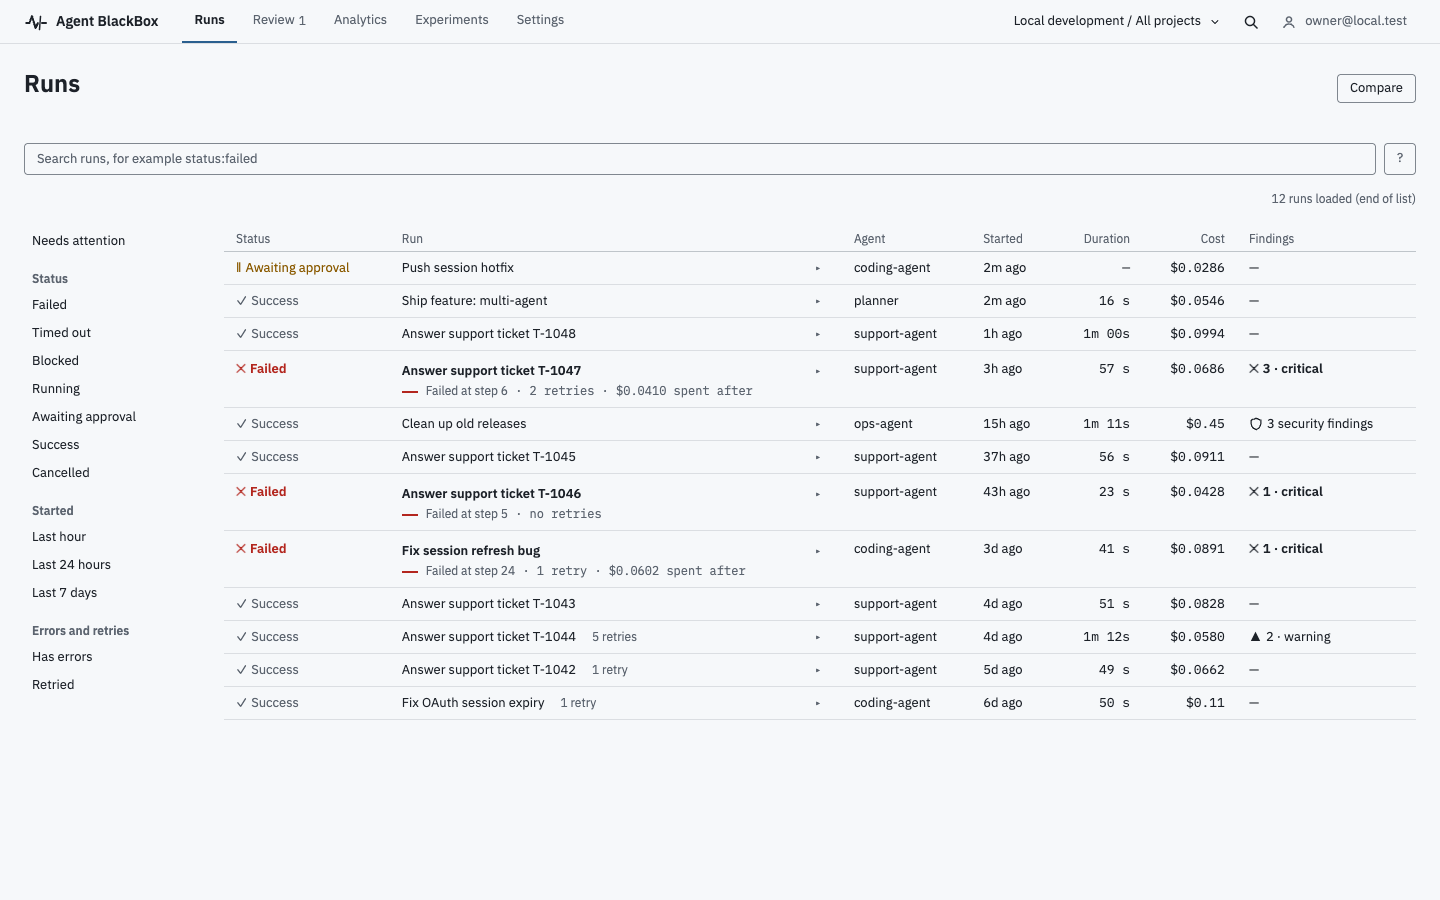
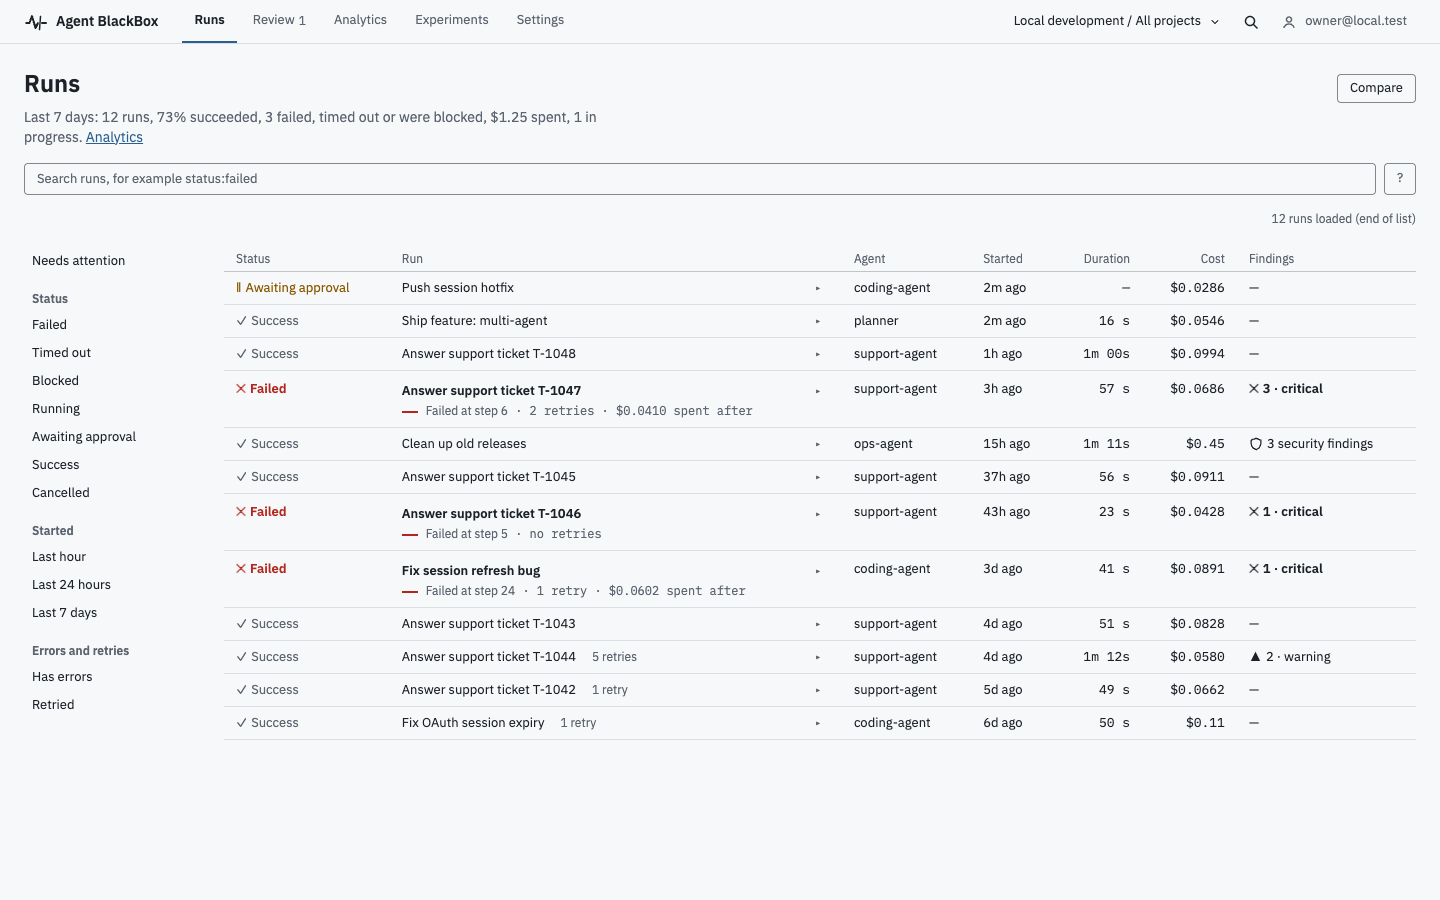
feat(screenshots): the release set (6 views, light and dark), verified over two fresh stacks

diff --git a/apps/web/e2e/release-shots.spec.ts b/apps/web/e2e/release-shots.spec.ts
@@ -186,6 +186,14 @@ for (const scheme of ["light", "dark"] as const) {
       await page.goto(`${BASE}/runs`);
       await expect(page.locator("tbody tr")).toHaveCount(12);
       await expect(page.getByText("Failed at step 6")).toBeVisible();
+      // The summary sentence under the title comes from the worker's rollup, which lags the last event on a fresh stack.
+      test.setTimeout(180_000);
+      await expect(async () => {
+        await page.reload();
+        await expect(page.getByText(/^Last 7 days: 12 runs, 73% succeeded/)).toBeVisible({
+          timeout: 4000,
+        });
+      }).toPass({ timeout: 150_000, intervals: [2000] });
       // The findings column fills in as the worker analyses each run: wait for every run that has findings.
       for (const [run, findings] of [
         [FAILED, "3 · critical"],
